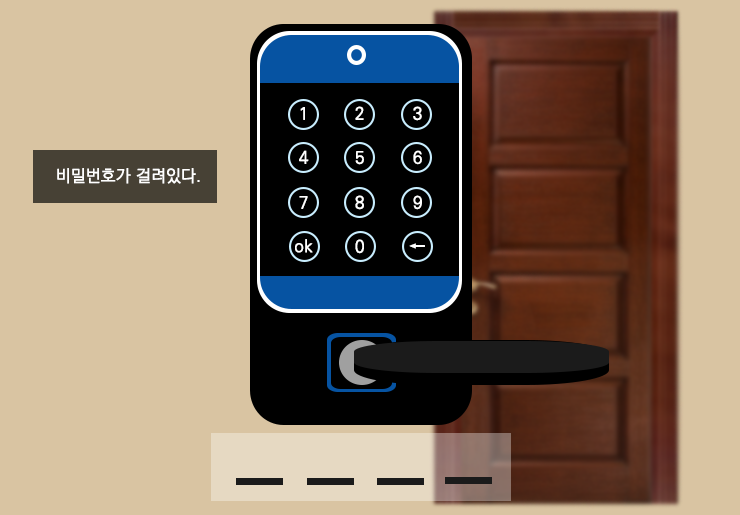
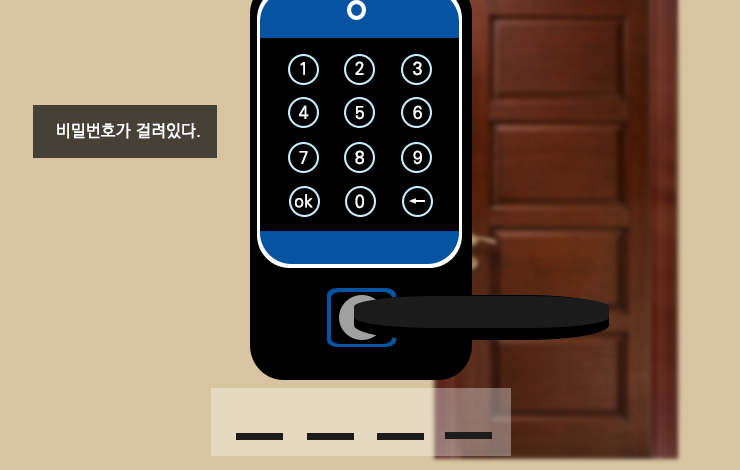
Have a good sleep

diff --git a/npcdialog.cpp b/npcdialog.cpp
@@ -289,6 +289,7 @@ void Npcdialog::passwdDialog()
     QPixmap * pixmap;
     pixmap = new QPixmap(":/images/doorlock_back.png");
     this->setPixmap(*pixmap);
+    this->move(0,50);
     delete pixmap;
     NPCname->setVisible(false);
     NPCimage->setVisible(false);
@@ -330,6 +331,7 @@ void Npcdialog::passwdDialogSelect(int choice)
             {
                 unlocked = true;
                 //change UI
+                move(0,50);
                 for(int i = 0;i<4;i++)
                     inputpwlabel[i]->setVisible(false);
                 NPCname->setVisible(true);
@@ -380,6 +382,15 @@ void Npcdialog::closeDialog()
     emit resumeGame();
 }
 
+void Npcdialog::setLabelTextColor(QLabel *label)
+{
+    QFont font("맑은 고딕",15);
+    label->setFont(font);
+    QPalette palette = label->palette();
+    palette.setColor(label->foregroundRole(), Qt::white);
+    label->setPalette(palette);
+}
+
 
 Npcdialog::Npcdialog(QWidget *parent, Room *_room) : QLabel(parent)
 {
@@ -396,17 +407,17 @@ Npcdialog::Npcdialog(QWidget *parent, Room *_room) : QLabel(parent)
     inputpwlabel[3] = new QLabel(this);
 
     //Set Position of Label
-    setGeometry(0,0,740,515);
-    dialoglabel->setGeometry(0,0, 740,515);
-    NPCimage->move(50,65);
-    NPCname->move(45,330);
-    dialogtextlabel->move(45,370);
-    dialogselectlabel[0]->move(565,413);
-    dialogselectlabel[1]->move(565,455);
-    inputpwlabel[0]->move(248,448);
-    inputpwlabel[1]->move(320,448);
-    inputpwlabel[2]->move(390,448);
-    inputpwlabel[3]->move(460,448);
+    setGeometry(0,50,740,515);
+    dialoglabel->setGeometry(0,-70, 740,515);
+    NPCimage->setGeometry(50,65,300,300);
+    NPCname->setGeometry(45,260,300, 30);
+    dialogtextlabel->setGeometry(45,280,648,63);
+    dialogselectlabel[0]->setGeometry(450,350,262,26);
+    dialogselectlabel[1]->setGeometry(450,375,262,26);
+    inputpwlabel[0]->setGeometry(248,448,50,50);
+    inputpwlabel[1]->setGeometry(320,448,50,50);
+    inputpwlabel[2]->setGeometry(390,448,50,50);
+    inputpwlabel[3]->setGeometry(460,448,50,50);
 
     //Make it visible
     this->setVisible(true);
@@ -418,6 +429,11 @@ Npcdialog::Npcdialog(QWidget *parent, Room *_room) : QLabel(parent)
         dialogselectlabel[i]->setVisible(true);
 
     //Set Font & Font color
+    setLabelTextColor(NPCname);
+    setLabelTextColor(dialogtextlabel);
+    for(int i = 0;i<2;i++)
+        setLabelTextColor(dialogselectlabel[i]);
+
 
     //Set Inner variables
     room = _room;

diff --git a/npcdialog.h b/npcdialog.h
@@ -41,6 +41,9 @@ private:
     void passwdDialogSelect(int choice);
     void closeDialog();
 
+    //UIFunction
+    void setLabelTextColor(QLabel * label);
+
 signals:
     void resumeGame();
 
